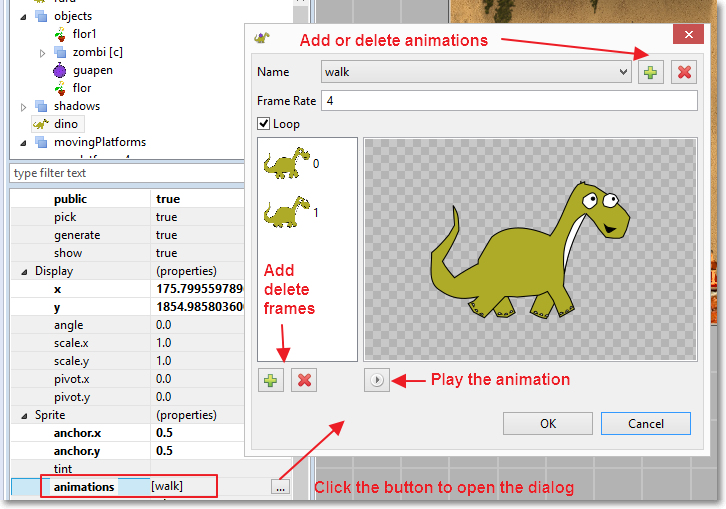
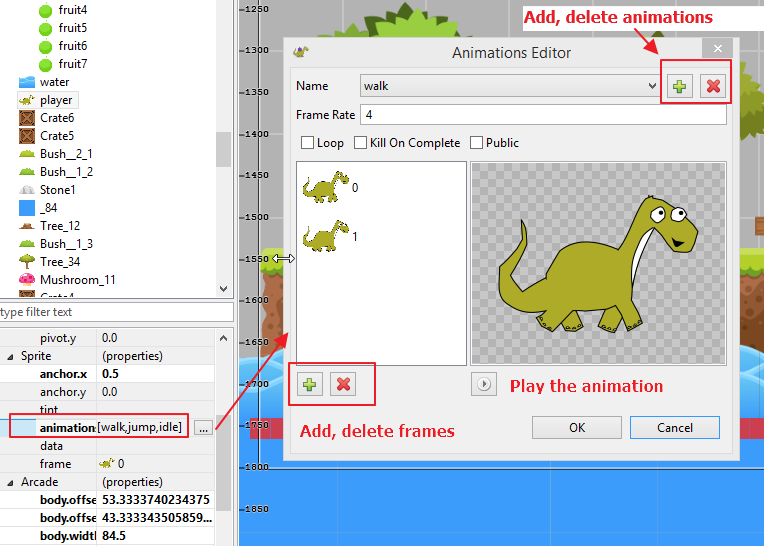
Help: whats new in 130 and updates to canvas doc.

diff --git a/source/phasereditor/phasereditor.help/html/whats-new/What's new in v1.3.0.html b/source/phasereditor/phasereditor.help/html/whats-new/What's new in v1.3.0.html
@@ -1,0 +1,157 @@
+                                   <html>
+								   
+								   <body>
+								  
+
+<p>We are happy to announce the  new Phaser Editor v1.3.0 release. We have been working on it during 3 months but with some pauses, caused by personal issues.</p>
+
+<p>However the interruptions, this is a great release:</p>
+
+<ul>
+<li>The visual level editor is now more robust, it is not a preview component anymore.</li>
+<li>The base platform (Eclipse) was updated to the latest version (Neon.1). Neon introduced very nice features and performance improvements.</li>
+<li>We enabled the Eclipse Marketplace so you can install third party plugins like EGit, to manage repos. There are some TypeScript plugins outthere, we are going to test them in the next days.</li>
+<li>The Eclipse Provisioning  tooling was included in the editor, it means, now Phaser Editor can be updated with a click! Bug fixes and new Phaser versions support will be available to you quickly, without the need to download the whole editor.</li>
+</ul>
+
+<p>Before to go deeper in the change log we want to comment about the new directions of the Phaser development.</p>
+
+<p>Now on there are two main directions in the Phaser development:</p>
+
+<ul>
+<li>Phaser CE (community edition)</li>
+<li>Phaser v2.6.2 and later Phaser v3.</li>
+</ul>
+
+<p>For now, we, the Phaser Editor team, do not plan to support Phaser CE, only Phaser v2.6.2 (the current official release of Phaser) is supported, until the next official release, that should be Phaser v3.</p>
+
+<p>It does not mean that Phaser Editor cannot be used to develop Phaser CE games. For now there are not breaking changes in the API so you can keep using our editor to develop your Phaser CE games.</p>
+
+<h2>Change log</h2>
+
+<h3>The new types of licenses</h3>
+
+<p>A user asked to us a lifetime license and we liked the idea.  So now you have the option to purchase different types of licenses: a license (the standard one) to unlock the editor for one year. A license to unlock the editor for 2 years and a license to unlock the editor for life. The only differences between them are the expiration time and the price. It looks like many developers prefer the lifetime license.</p>
+
+<p>A teacher from a university contacted with us asking for a discount to purchase a package of licenses to be used by his students. We do not have yet an official license or procedure for that, but if you are a teacher or a studio and you are interested on purchase a package of licenses please do not hesitate to contact with us, we can provide you a discount.</p>
+
+<h3>Spanish support</h3>
+
+<p>We realized that we have to write in our sites that we can provide support in Spanish. Many Spanish-speaking developers contact with us using the English language. It is a pleasure to us to read and answer your emails in your mother tongue. To write about programming in Spanish could be hard some time, because many technical terms do no have an easy translation, if it is the case, do not worry, you can merge Spanish with English as well.</p>
+
+<p>The only thing we ask to you is that if you are contacting with us through public channels like Github issues, Blog comments, etc... we prefer to use English, in that way the other readers can understand the thread. In any case we are always open to receive private messages specially if you write an email to developers@boniatillo.com.</p>
+
+<h3>New learning content</h3>
+
+<p>We strongly recommend to read an article we published in the GameDevAcademy blog. It is a tutorial to learn, step by step, how to make a platformer game:</p>
+
+<p><a href="https://gamedevacademy.org/make-a-mario-style-platformer-with-the-phaser-editor/">Make a Mario-style game with Phaser Editor</a></p>
+
+<p>It is a perfect complement to the Phaser Editor documentation.</p>
+
+<h3>Scene editor</h3>
+
+<ul>
+<li>Bug fix: the stepping (if enabled) is not applied when dragging many objects.</li>
+<li>Bug fix: wrong size of sprites based on textures from an atlas with Strip Whitespaces enabled.</li>
+<li>Bug fix: select an object (pick it with the mouse) is not working in certain cases.</li>
+<li>Overall performance improved (by enabling the JavaFX image cache): scene loading, objects deletions, undo/redo operations, zoom... </li>
+<li>Better handling of missing assets. When a file or asset definition (in the asset pack) is missing, the scene shows a special "sprite" with an error message like this:
+<br>
+<img src="./What's new in v1.3.0_files/20161129155610-CanvasMissingAsset.png" alt="Missing asset sprite">
+<br>
+When the asset or file is restored the sprite will be reconnected with it automatically.</li>
+<li>Improved scene serialization format to reduce the loading speed and file size. Now it uses an asset lookup table. Older files still compatible.</li>
+<li>The animations editor now support two new fields: <strong>Kill On Complete</strong> and <strong>Public</strong>.
+
+<ul>
+<li><strong>Kill On Complete</strong> is a Phaser property (<code>Phaser.Animation.killOnComplete</code>) that you can enable to destroy the sprite when the anmiation is completed.</li>
+<li><strong>Public</strong> is not a Phaser concept, it is a field you can enable to indicate the editor to generate a public field to references the animation in cuestion. For example, if you have a sprite <strong>player</strong> and make public its <strong>walk</strong> animation, then the editor will generate a <code>fPlayer_walk</code> field that you can access like this: <code>scene1.fPlayer_walk.play()</code>.
+<br>
+<img src="./What's new in v1.3.0_files/20161129165536-AnimationsEditorFields.png" alt="Animations editor new fields"></li>
+</ul></li>
+<li>The scene editor toolbar was moved from the editor to the main toolbar. In this way the editor has more space and the toolbar can be docked in other sides of the main window.
+<br>
+<img src="./What's new in v1.3.0_files/20161129170149-CanvasToolbar.png" alt="Canvas toolbar">
+<br></li>
+<li>Set snapping based in selection. The snapping allows you to drag the objects in the scene with a fixed step. Now if you press <code>W</code>, the snapping step will get the width and height value of the selected object, and enabled.</li>
+<li>To scroll the scene you can press the <code>ALT</code> key and drag the scene with the left button of the mouse.</li>
+</ul>
+
+<h3>Asset Pack Editor</h3>
+
+<ul>
+<li>Added undo/redo support.</li>
+<li>Now it requires to save the editor to make the changes available to other components like the Assets viewer and the Scene editor.</li>
+<li>Ask for confirmation if you try to delete an asset that is used by any scene of the project.</li>
+</ul>
+
+<h3>Errors reporting</h3>
+
+<p>Improved the algorithm to detect the errors in the Asset Pack and Scene files. These errors are shown in the Problems view and an error icon is placed on top of the file icon in the Project Explorer.</p>
+
+<p><img src="./What's new in v1.3.0_files/20161129163752-CanvasFileError.png" alt="Error overlay icon"></p>
+
+<h3>Project Templates</h3>
+
+<ul>
+<li>The project templates <strong>Platformer</strong>, <strong>Platformer 8-bits</strong> and <strong>Platformer Tiles</strong> were updated to use a hidden collision layer. This technique is explained in the <a href="https://gamedevacademy.org/make-a-mario-style-platformer-with-the-phaser-editor/">Make a Mario-style platformer... tutorial</a>.</li>
+</ul>
+
+<h3>Chains</h3>
+
+<ul>
+<li>Improved loading performance by reducing its metadata size.</li>
+</ul>
+
+<h3>JavaScript editor</h3>
+
+<p>The JavaScript editor type inference engine was improved and objects keep the type information in property assign sentences.</p>
+
+<h3>Embedded HTPP server</h3>
+
+<ul>
+<li>Bug fix: linked resources (projects, folders) are not served. It happens for example when you import a project into the workspace but do not copy the content.</li>
+<li>The favicon now shows the Fufu Super Dino logo.</li>
+</ul>
+
+<h3>Eclipse Marketplace</h3>
+
+<p>The <a href="https://marketplace.eclipse.org/">Eclipse Marketplace</a> is an app store used by many Eclipse developers and companies to publish their tools and products.</p>
+
+<p>Now you can open the Eclipse Marketplace from Phaser Editor and search for third-party plugins that can be useful for you, for example, you can look for Git tooling.</p>
+
+<p>Note that there are different solutions for the same thing, just look in how many times it was installed and who is providing it (Eclipse, a company or a particular).</p>
+
+<p>In the next days we are going to evaluate the TypeScript solutions available in the marketplace, then we are going to write a tutorial about how to make games with TypeScript and Phaser Editor.</p>
+
+<p>To open the marketplace client just click on <code>Help &gt; Eclipse Marketplace</code>.</p>
+
+<p>If you are an advanced Eclipse user then you can install any other plugin from its update site or your own plugin.</p>
+
+<p>In the editor offline help there is a section dedicated to this marketplace tool: <strong>Eclipse Marketplace User Guide</strong>.</p>
+
+<p><img src="./What's new in v1.3.0_files/20161130101724-Marketplace.png" alt="Eclipse Marketplace"></p>
+
+<h3>Phaser Editor updates</h3>
+
+<p>This is a great new feature. Now we are going to develiver updates more often, and you will be able to install them quickly and without the need to download the whole Phaser Editor installation.</p>
+
+<p>We are going to release a major version at a rate of 3-4 months, and minor updates probably every month, in addition to the updates related to new Phaser versions.</p>
+
+<p>When the editor starts it looks for new updates. If there are updates it shows a confirmation dialog to install them. You can change that behavior in <code>Window &gt; Preferences &gt; Install/Update &gt; Automatic Updates</code>.</p>
+
+<p>Sure, you always has the option to check for updates yourself: <code>Help &gt; Check for Updates</code></p>
+
+<p><img src="./What's new in v1.3.0_files/20161130114328-CheckUpdates.png" alt="Check for updates"></p>
+
+<h3>Updated to the latest Eclipse version</h3>
+
+<p>As you know Phaser Editor is based on the Eclipse platform. In this release we updated to Neon.1, the latest Eclipse version. We recommend you to take a look to the new features bundled in Neon. Personally we like the new option to disable the Theming engine, it should improve performance and give to the editor a more native look. You can disable it in <code>Window &gt; Preferences &gt; General &gt; Appearance &gt; Enable theming</code>. To make it to work you have to restart the editor: <code>File &gt; Restart</code>.</p>
+
+<p><a href="http://www.eclipse.org/eclipse/news/4.6/platform.php">Read more about the Eclipse Neon news</a></p>
+
+<p><img src="./What's new in v1.3.0_files/20161130114104-DisabledThemeing.png" alt="Look with disabled theming"></p>
+                </body>
+				
+				</html>

diff --git a/source/phasereditor/phasereditor.help/html/quick-start/Scene Editor - Phaser Editor Blog.html b/source/phasereditor/phasereditor.help/html/quick-start/Scene Editor - Phaser Editor Blog.html
@@ -319,9 +319,11 @@ sprite.tint = 0xfcfcfc; // modified property
 dino.animations.add('walk', [0, 1, 2], 4, true);
 </code></pre>
 
-<p>We provide an Animations editor where you create animations and set the name, fps, loop and frames:</p>
+<p>We provide an Animations editor where you create animations and set the name, fps, kill-on-complete, loop and frames:</p>
 
 <p><img src="./Scene Editor - Phaser Editor Blog_files/20160622160306-AnimationsDialog.png" alt="Animations editor"></p>
+
+<p>In addition you can mark an animation as "public". For each public animation the editor generates a public field with a references to it. For example, if the <strong>player</strong> sprite has a public <strong>walk</strong> animation, the editor generates a <code>fPlayer_walk</code> field that can be used like this: <code>scene1.fPlayer_walk.play()</code>.</p>
 
 <h3><a name="DataEditor"></a>Data editor</h3>
 
@@ -400,7 +402,7 @@ dino.animations.add('walk', [0, 1, 2], 4, true);
 <ul>
 <li><p><strong>Scene width and height</strong>. These values has not impact on the generated code, it is used only for show the "world frame" in the editor. The generated code is just a custom group so the developer is should to set the game size and world bounds in the game code.</p></li>
 <li><p><strong>Scene color</strong>. It sets the canvas "world" background color. This value is not included in the generated code.</p></li>
-<li><p><strong>Snapping</strong>. You can enable snapping and set the X and Y steps of the snapping. This is very useful to create levels with fixed size sprites, because the snapping guarantee that objects are placed in the right positions. The snapping can be toggle with a key sequence: <code>E</code>.</p></li>
+<li><p><strong>Snapping</strong>. You can enable snapping and set the X and Y steps of the snapping. This is very useful to create levels with fixed size sprites, because the snapping guarantee that objects are placed in the right positions. The snapping can be toggle with a key sequence: <code>E</code>. With the <code>W</code> key you can enable the snapping and set the width and height of the selected object.</p></li>
 <li><p><strong>Generate on Save</strong>. If set to true, the code is generated when the user saves the scene.</p></li>
 </ul>
 
